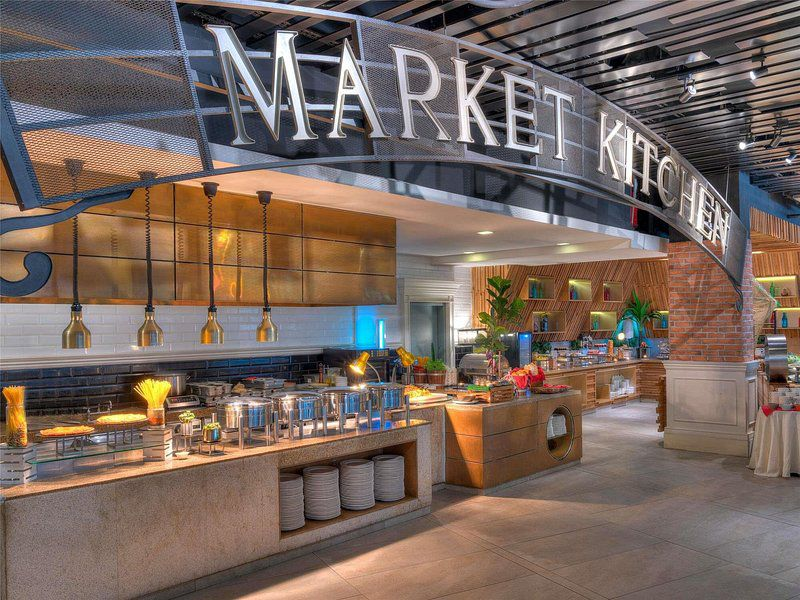
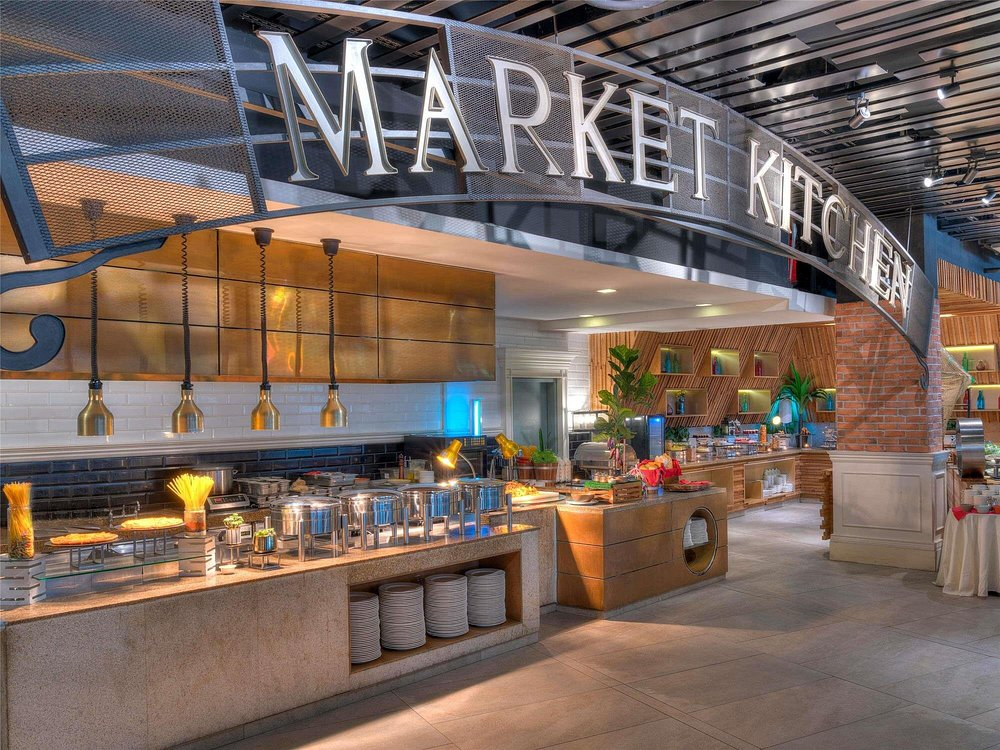
replace hig-res image + replace image in Homepage

diff --git a/resources/views/home.blade.php b/resources/views/home.blade.php
@@ -17,12 +17,10 @@
             <div class="row custom-container kitchen-tailor-home-container align-items-center">
                 <div class="fade-slider">
                     <img src="/images/kitchen-tailor/Homepage-Banner-8.jpg" class="slide active">
-                    <img src="/images/kitchen-tailor/bathroom/Bathroom-4.jpeg" class="slide">
-                    <img src="/images/kitchen-tailor/kitchen/Kitchen-2.jpeg" class="slide">
-                    <img src="/images/kitchen-tailor/bathroom/Bathroom-7.jpeg" class="slide">
-                    <img src="/images/kitchen-tailor/kitchen/Kitchen-5.jpeg" class="slide">
                     <img src="/images/kitchen-tailor/bathroom/Bathroom-9.jpeg" class="slide">
                     <img src="/images/kitchen-tailor/Homepage-Banner-9.jpg" class="slide">
+                    <img src="/images/kitchen-tailor/bathroom/Bathroom-4.jpeg" class="slide">
+                    <img src="/images/kitchen-tailor/Homepage-Banner-17.jpeg" class="slide">
                 </div>
             </div>
         </div>
@@ -73,7 +71,7 @@
             <div class="row custom-container kitchen-tailor-end-container align-items-center">
                 <div class="col-12 d-flex flex-column flex-lg-row gap-2 gap-lg-0 justify-content-between">
                     <div class="col-12 col-lg-6 d-flex-center">
-                        <img src="/images/kitchen-tailor/Homepage-Banner-17.jpeg" class="end-image">
+                        <img src="/images/kitchen-tailor/Homepage-Banner-15.jpeg" class="end-image">
                     </div>
                     <div class="col-12 col-lg-6 d-flex-center">
                         <img src="/images/kitchen-tailor/Homepage-Banner-16.jpeg" class="end-image">
